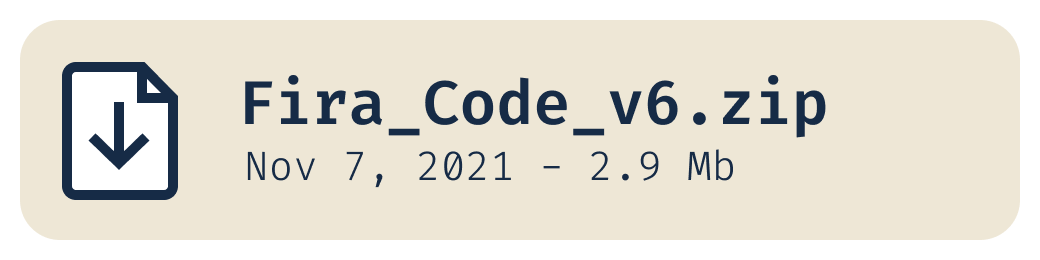
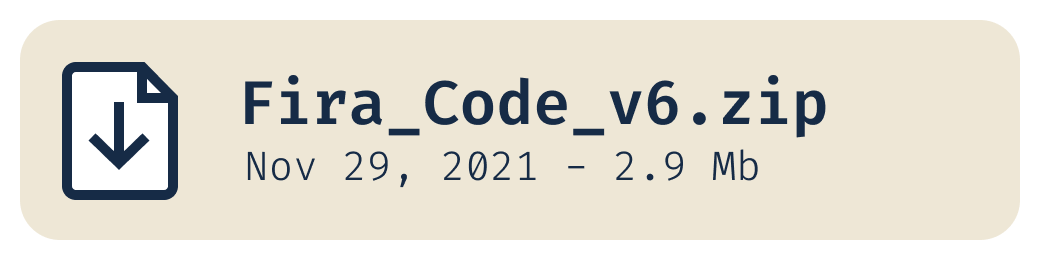
6.0 Release

Changed region(s): [[0.3385, 0.5846, 0.7385, 0.7077]]

diff --git a/README.md b/README.md
@@ -12,7 +12,7 @@ Fira Code is a free monospaced font containing ligatures for common programming 
 
 ### Download & Install
 
-<a href="https://github.com/tonsky/FiraCode/releases/download/5.2/Fira_Code_v5.2.zip"><img alt="Fira_Code_v5.2.zip - June 12, 2020 - 2.3 MB" src="./extras/download.png" width="520" height="130"></a>
+<a href="https://github.com/tonsky/FiraCode/releases/download/6.0/Fira_Code_v6.0.zip"><img alt="Fira_Code_v6.0.zip - November 29, 2021 - 2.9 MB" src="./extras/download.png" width="520" height="130"></a>
 
 Then:
 
@@ -151,12 +151,12 @@ Unicode coverage makes Fira Code a great choice for mathematical writing:
 
 ```html
 <!-- HTML -->
-<link rel="stylesheet" href="https://cdn.jsdelivr.net/gh/tonsky/FiraCode@5.2/distr/fira_code.css">
+<link rel="stylesheet" href="https://cdn.jsdelivr.net/gh/tonsky/FiraCode@6.0/distr/fira_code.css">
 ```
 
 ```css
 /* CSS */
-@import url(https://cdn.jsdelivr.net/gh/tonsky/FiraCode@5.2/distr/fira_code.css);
+@import url(https://cdn.jsdelivr.net/gh/tonsky/FiraCode@6.0/distr/fira_code.css);
 ```
 
 ```css
